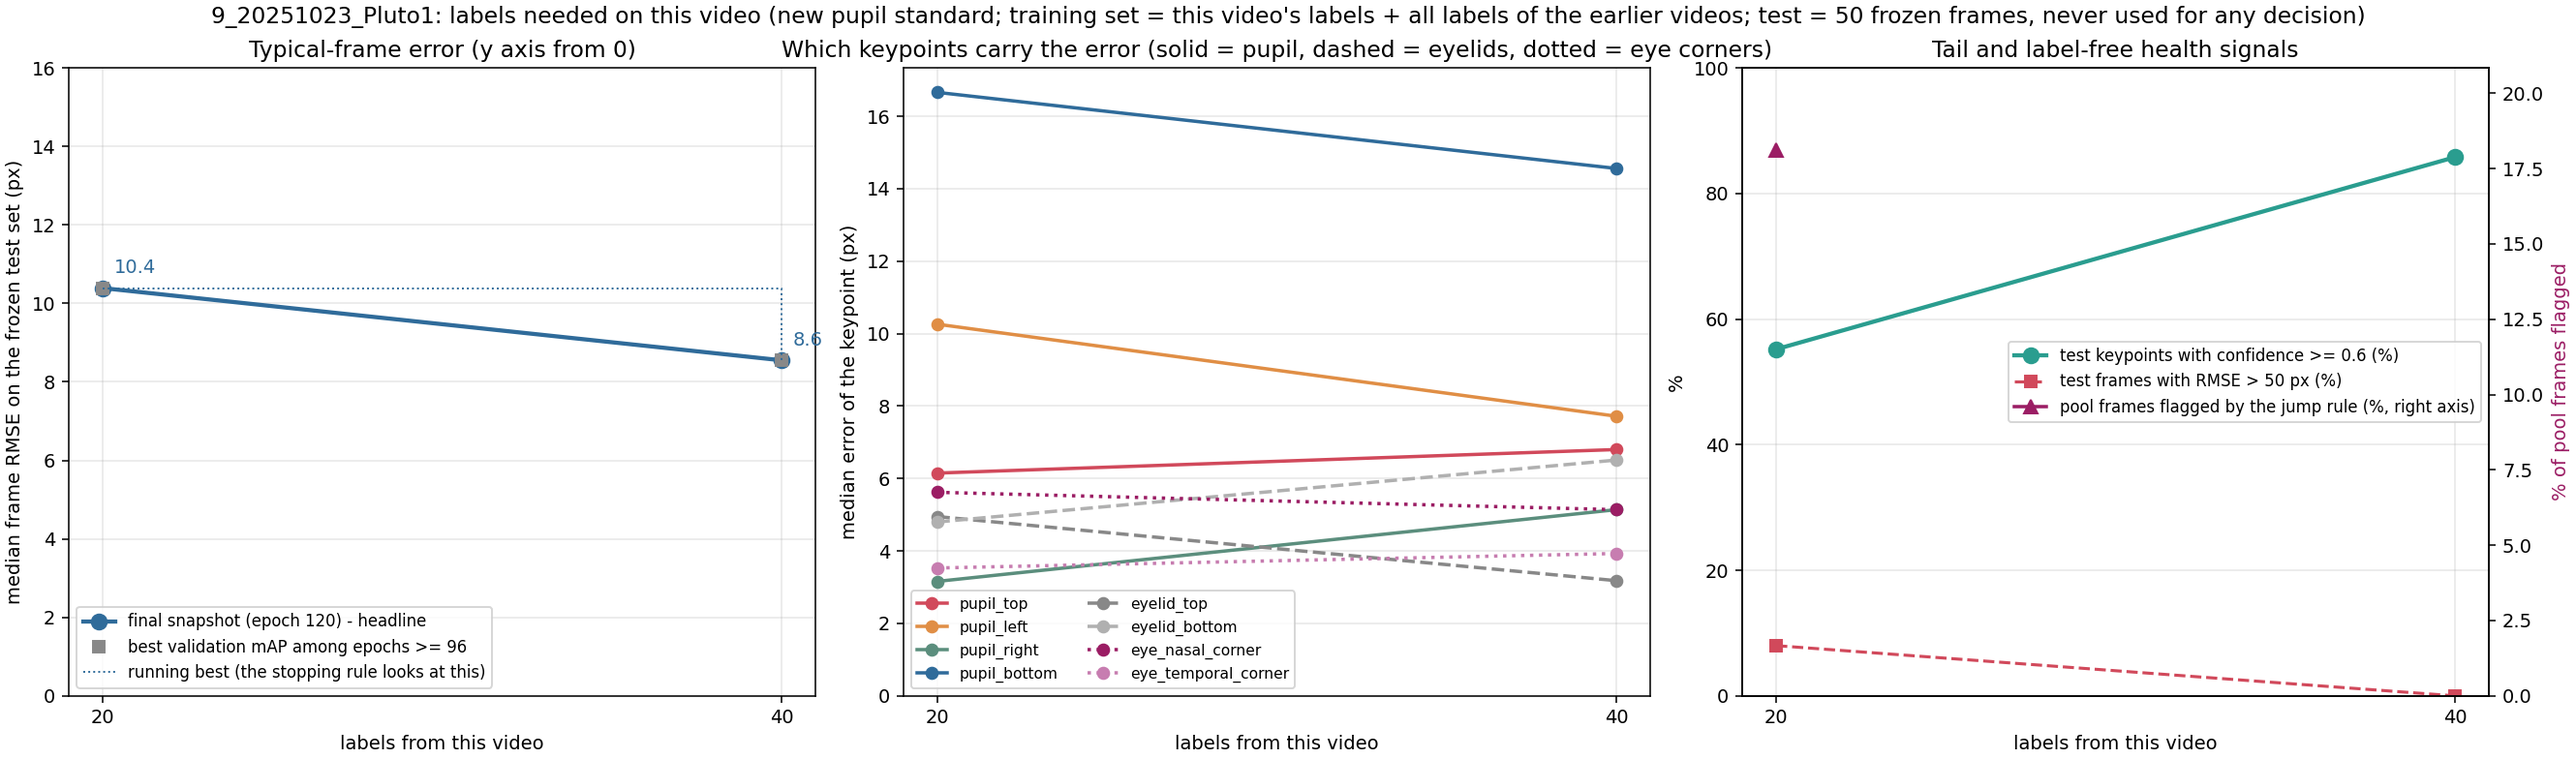
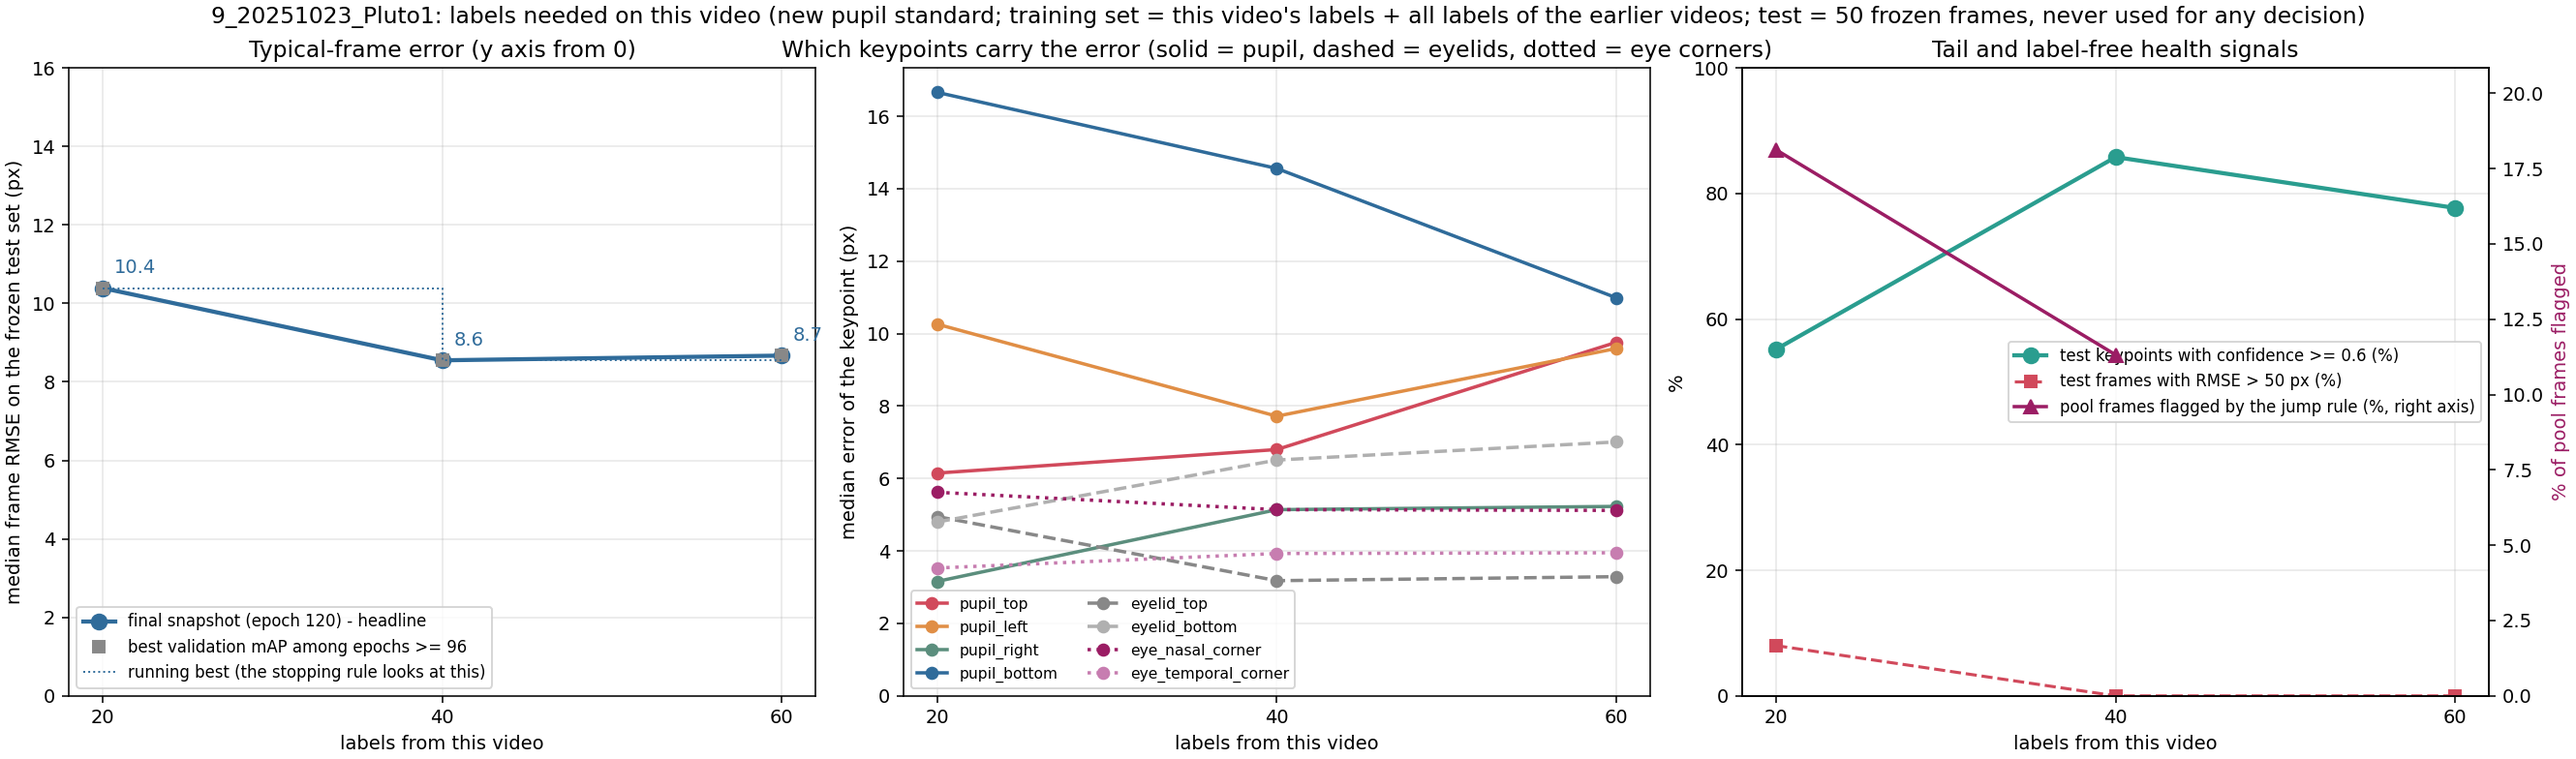
Video 9 v2 step 3: 60 labels = 8.67 px (running best 8.55 at 40 labels)

diff --git a/README.md b/README.md
@@ -8,7 +8,7 @@ how many human labels are needed, and how few frames must a person correct, befo
 Zhiheng Li (University of Minnesota), with Kaiwen Sheng (Stanford). Raw videos, frames, labels, model weights and
 per-frame predictions stay local; git carries code, documentation and audited aggregate results.
 
-## Status (last updated 2026-09-30 23:00 CDT)
+## Status (last updated 2026-10-01 10:25 CDT)
 
 | what | state |
 |---|---|
@@ -21,7 +21,7 @@ per-frame predictions stay local; git carries code, documentation and audited ag
 | Finished | **video 6** (Pluto, 2025-10-28, v2 line continued): test set relabeled under v2 and frozen; 0 labels (video-5 model 631) = 9.36 px, 20 labels = 6.75 px (p90 11.2), 40 labels = 8.46 px, 60 labels = 10.68 px (p90 14.9): finished at **20 labels, 6.75 px** (rule fired at 60; user decision 2026-09-29). |
 | Finished | **video 7** (Pluto, 2025-10-27, v2 line): test set relabeled under v2 and frozen; 0 labels (video-6 model 711) = 5.36 px, 20 labels = 5.86 px, 40 labels = 5.84 px: finished at **0 labels, 5.36 px** - the video-6 model already fits this day (user decision 2026-09-29). |
 | Finished | **video 8** (Pluto, 2025-10-24, v2 line): test set relabeled under v2 and frozen; 0 labels (video-6 model 711) = 27.46 px, 20 labels = 25.34 px, 40 labels = 30.03 px (p90 ~50, 12-14% of frames > 50 px - a hard day, 3 days after video 7); 60 labels = 33.77 px: finished at **20 labels, 25.34 px** (rule fired at 60; 12-16% of frames > 50 px at every step - this day is hard). |
-| In progress | **video 9** (Pluto, 2025-10-23, v2 line): test50 / val20 / batch01 labeled from model-711 pre-labels; 0 labels (model 711) = 23.41 px, 20 labels = 10.39 px, 40 labels = 8.55 px (p90 19.6, no frame > 50 px any more); batch03 being selected Cross-video curves now also show the 5 / 10-label subset models (open markers) |
+| In progress | **video 9** (Pluto, 2025-10-23, v2 line): test50 / val20 / batch01 labeled from model-711 pre-labels; 0 labels (model 711) = 23.41 px, 20 labels = 10.39 px, 40 labels = 8.55 px, 60 labels = 8.67 px (p90 14.8; no gain on the median, the plateau rule decides after step 4); batch04 being selected Cross-video curves now also show the 5 / 10-label subset models (open markers) |
 | Blink / area analysis | per-video time series in `<video>/results/blink_area_analysis/`; across videos (`v2_new_pupil_top_video_scaling/results/blink_area_consistency.png`): 4-point area better on 7 of 8 test sets; lowest pupil confidence < ~0.2 separates all 16 human closed-eye frames (the production 0.6 cut flags ~half of open frames); area correlates with eye opening in every video |
 | Test-set only | videos 5-8 (2025-10-29 / 28 / 27 / 24): frozen test sets scored by every model so far; videos 9 (10-23) and 10 (10-22): test sets being labeled |
 
@@ -40,7 +40,7 @@ Labels needed per video (plateau = two consecutive 20-label steps that improve t
 | 6 | Pluto, 2025-10-28 | 380 | 9.36 / 6.75 / 8.46 / 10.68 px (v2) | 20 labels, 6.75 px (rule fired at 60) |
 | 7 | Pluto, 2025-10-27 | 400 | 5.36 / 5.86 / 5.84 px (v2) | 0 labels, 5.36 px (rule fired at 40) |
 | 8 | Pluto, 2025-10-24 | 400 | 27.46 / 25.34 / 30.03 / 33.77 px (v2) | 20 labels, 25.3 px (rule fired at 60) |
-| 9 | Pluto, 2025-10-23 | 420 | 23.41 / 10.39 / 8.55 px (v2, in progress) | – |
+| 9 | Pluto, 2025-10-23 | 420 | 23.41 / 10.39 / 8.55 / 8.67 px (v2, in progress) | – |
 
 What the numbers say:
 

diff --git a/v2_new_pupil_top_video_scaling/results/README.md b/v2_new_pupil_top_video_scaling/results/README.md
@@ -21,7 +21,7 @@ snapshot with the best validation mAP after the first learning-rate drop (epochs
 | 6 `6_20251028_Pluto_spont_1` | mouse B, 19.9 min, 2025-10-28 | 380 (videos 0-3 + 40 of video 4 + 20 of video 5) | convention v2: 9.36 / 6.75 / 8.46 / 10.68 | **20 labels** (rule fired at 60; user decision 2026-09-29) | 6.75 px |
 | 7 `7_20251027_Pluto_spont1` | mouse B, 19.9 min, 2025-10-27 | 400 (videos 0-3 + 40 of video 4 + 20 of video 5 + 20 of video 6) | convention v2: 5.36 / 5.86 / 5.84 | **0 labels** (rule fired at 40; user decision 2026-09-29) | 5.36 px |
 | 8 `8_20251024_Pluto_spont1` | mouse B, 19.9 min, 2025-10-24 | 400 (videos 0-3 + 40 of video 4 + 20 of video 5 + 20 of video 6) | convention v2: 27.46 / 25.34 / 30.03 / 33.77 | **20 labels** (rule fired at 60; user decision 2026-09-30) | 25.34 px |
-| 9 `9_20251023_Pluto1` | mouse B, 19.9 min, 2025-10-23 | 420 (videos 0-3 + 40 of video 4 + 20 each of videos 5, 6, 8) | convention v2: 23.41 / 10.39 / 8.55 | in progress | – |
+| 9 `9_20251023_Pluto1` | mouse B, 19.9 min, 2025-10-23 | 420 (videos 0-3 + 40 of video 4 + 20 each of videos 5, 6, 8) | convention v2: 23.41 / 10.39 / 8.55 / 8.67 | in progress (step 3 did not improve on 8.55; rule decides after step 4) | – |
 
 `labels_to_plateau.png` / `labels_to_plateau.csv` (2026-09-30): the plateau point of every video in the sequence as one figure - labels needed (left) and the error at the plateau vs the 0-label error (right); `scripts/plot_labels_to_plateau.py`. The csv is the table above in machine-readable form and is updated when a video finishes.
 

diff --git a/v2_new_pupil_top_video_scaling/9_20251023_Pluto1/results/README.md b/v2_new_pupil_top_video_scaling/9_20251023_Pluto1/results/README.md
@@ -11,3 +11,4 @@ contributed none); shuffles 1011, 1012, ...
 | 0 (video-6 20-label model 711, applied unchanged) | 23.41 px | 41.4 | 8% | 36% | – |
 | 20 (shuffle 1011) | 10.39 px | 24.3 | 8% | 55% | 10359 of 57158 (18.1%) |
 | 40 (shuffle 1012) | 8.55 px | 19.6 | 0% | 86% | 6470 of 57158 (11.3%) |
+| 60 (shuffle 1013) | 8.67 px | 14.8 | 0% | 78% | pending |
